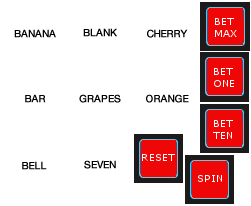
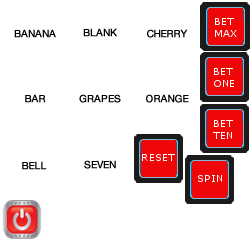
Assignement2-Part4

diff --git a/COMP397-slotmachine/Scripts/game.js b/COMP397-slotmachine/Scripts/game.js
@@ -12,6 +12,7 @@ var stage;
 var stats;
 var tiles = [];
 var reelContainers = [];
+var pButton;
 //Game constants
 var NUM_REELS = 3;
 var assets;
@@ -34,7 +35,8 @@ var atlas = {
         [134, 68, 64, 64],
         [134, 134, 49, 49],
         [68, 134, 64, 64],
-        [185, 155, 49, 49]
+        [185, 155, 49, 49],
+        [2, 206, 40, 40]
     ],
     "animations": {
         "bananaSymbol": [0],
@@ -49,7 +51,8 @@ var atlas = {
         "orangeSymbol": [9],
         "resetButton": [10],
         "sevenSymbol": [11],
-        "spinButton": [12]
+        "spinButton": [12],
+        "powerButton": [13]
     }
 };
 // Game Variables
@@ -76,6 +79,8 @@ var oranges = 0;
 var cherries = 0;
 var shells = 0;
 var diamonds = 0;
+var bells = 0;
+var bars = 0;
 var grapes = 0;
 var cherries = 0;
 var blanks = 0;
@@ -197,10 +202,10 @@ function determineWinnings() {
         else if (shells == 3) {
             winnings = playerBet * 50;
         }
-        else if (grapes == 3) {
+        else if (sevens == 3) {
             winnings = playerBet * 75;
         }
-        else if (cherries == 3) {
+        else if (bells == 3) {
             winnings = playerBet * 100;
         }
         else if (grapes == 2) {
@@ -218,13 +223,13 @@ function determineWinnings() {
         else if (shells == 2) {
             winnings = playerBet * 5;
         }
-        else if (grapes == 2) {
+        else if (bells == 2) {
             winnings = playerBet * 10;
         }
         else if (cherries == 2) {
             winnings = playerBet * 20;
         }
-        else if (cherries == 1) {
+        else if (grapes == 1) {
             winnings = playerBet * 5;
         }
         else {
@@ -244,7 +249,7 @@ function showLossMessage() {
     //$("div#winOrLose>p").text("You Lost!");
     stage.removeChild(winMsgLabel);
     stage.removeChild(loseMsgLabel);
-    loseMsgLabel = new objects.Label("OOPS....YOU LOSE", 90, 60, false);
+    loseMsgLabel = new objects.Label("OOPS..YOU LOSE", 85, 60, false);
     stage.addChild(loseMsgLabel);
     resetFruitTally();
 }
@@ -255,7 +260,7 @@ function showWinMessage() {
     console.log("WINNER");
     stage.removeChild(loseMsgLabel);
     stage.removeChild(winMsgLabel);
-    winMsgLabel = new objects.Label("BRAVO!!YOU WIN JACKPOT", 39, 60, false);
+    winMsgLabel = new objects.Label("BRAVO!!YOU WIN ", 80, 60, false);
     stage.addChild(winMsgLabel);
     resetFruitTally();
     checkJackPot();
@@ -352,6 +357,9 @@ function betMaxButtonClicked(event) {
     mybetMaxLabel = new objects.Label("$" + playerMoney.toString(), 140, 298, false);
     stage.addChild(mybetMaxLabel);
 }
+function pButtonClicked(event) {
+    window.close();
+}
 /* Utility function to show Player Stats */
 function showPlayerStats() {
     winRatio = winNumber / turn;
@@ -425,5 +433,8 @@ function createUI() {
     myBetTenButton = new objects.Button("betTenButton", 194, 330, false);
     stage.addChild(myBetTenButton);
     myBetTenButton.on("click", betTenButtonClicked, this);
+    pButton = new objects.Button("powerButton", 250, 40, false);
+    stage.addChild(pButton);
+    pButton.on("click", pButtonClicked, this);
 }
 //# sourceMappingURL=game.js.map

diff --git a/COMP397-slotmachine/Scripts/game.ts b/COMP397-slotmachine/Scripts/game.ts
@@ -15,6 +15,7 @@ var stage: createjs.Stage;
 var stats: Stats;
 var tiles: createjs.Bitmap[] = [];
 var reelContainers: createjs.Container[] = [];
+var pButton: objects.Button;
 
 //Game constants
 var NUM_REELS: number = 3;
@@ -43,7 +44,8 @@ var atlas = {
         [134, 68, 64, 64],
         [134, 134, 49, 49],
         [68, 134, 64, 64],
-        [185, 155, 49, 49]
+        [185, 155, 49, 49],
+        [2,206,40,40]
     ],
     "animations": {
 
@@ -59,7 +61,8 @@ var atlas = {
         "orangeSymbol": [9],
         "resetButton": [10],
         "sevenSymbol": [11],
-        "spinButton": [12]
+        "spinButton": [12],
+        "powerButton":[13]
     }
 }
 
@@ -97,6 +100,8 @@ var oranges = 0;
 var cherries = 0;
 var shells = 0;
 var diamonds = 0;
+var bells = 0;
+var bars = 0;
 var grapes = 0;
 var cherries = 0;
 var blanks = 0;
@@ -239,10 +244,10 @@ function determineWinnings() {
         else if (shells == 3) {
             winnings = playerBet * 50;
         }
-        else if (grapes == 3) {
+        else if (sevens == 3) {
             winnings = playerBet * 75;
         }
-        else if (cherries == 3) {
+        else if (bells == 3) {
             winnings = playerBet * 100;
         }
         else if (grapes == 2) {
@@ -260,13 +265,13 @@ function determineWinnings() {
         else if (shells == 2) {
             winnings = playerBet * 5;
         }
-        else if (grapes == 2) {
+        else if (bells == 2) {
             winnings = playerBet * 10;
         }
         else if (cherries == 2) {
             winnings = playerBet * 20;
         }
-        else if (cherries == 1) {
+        else if (grapes == 1) {
             winnings = playerBet * 5;
         }
         else {
@@ -289,7 +294,7 @@ function showLossMessage() {
     //$("div#winOrLose>p").text("You Lost!");
     stage.removeChild(winMsgLabel);
     stage.removeChild(loseMsgLabel);
-    loseMsgLabel = new objects.Label("OOPS....YOU LOSE", 90, 60, false);
+    loseMsgLabel = new objects.Label("OOPS..YOU LOSE", 85, 60, false);
     stage.addChild(loseMsgLabel);
     resetFruitTally();
 }
@@ -302,7 +307,7 @@ function showWinMessage() {
     stage.removeChild(loseMsgLabel);
     stage.removeChild(winMsgLabel);
  
-    winMsgLabel = new objects.Label("BRAVO!!YOU WIN JACKPOT", 39, 60, false);
+    winMsgLabel = new objects.Label("BRAVO!!YOU WIN ", 80, 60, false);
     stage.addChild(winMsgLabel);
     resetFruitTally();
     checkJackPot();
@@ -432,6 +437,11 @@ function betMaxButtonClicked(event: createjs.MouseEvent) {
 
 }
 
+function pButtonClicked(event: createjs.MouseEvent) {
+
+    window.close();
+}
+
 
 /* Utility function to show Player Stats */
 function showPlayerStats() {
@@ -533,5 +543,9 @@ function createUI() {
     myBetTenButton = new objects.Button("betTenButton", 194, 330, false);
     stage.addChild(myBetTenButton);
     myBetTenButton.on("click", betTenButtonClicked, this);
+
+    pButton = new objects.Button("powerButton", 250, 40, false);
+    stage.addChild(pButton);
+    pButton.on("click", pButtonClicked, this);
     
 }

diff --git a/COMP397-slotmachine/css/main.css b/COMP397-slotmachine/css/main.css
@@ -1,6 +1,7 @@
 body {
-    background-image:url("assets/images/texture.jpg");
+    background-image:url("/assets/images/backgroundimage.jpg");
     background-repeat:no-repeat;
+    background-size:cover;
 }
 
 canvas {
